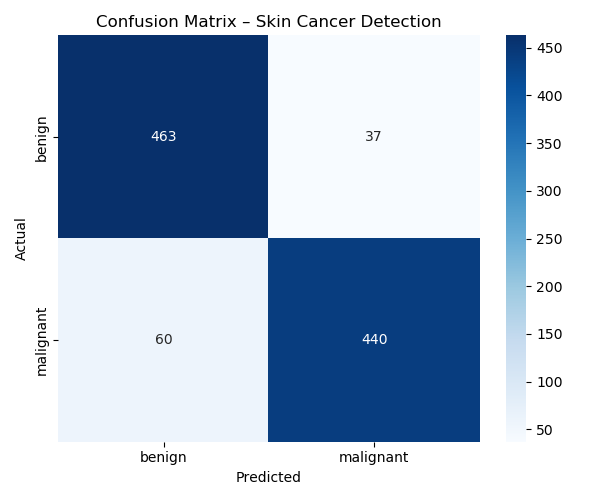
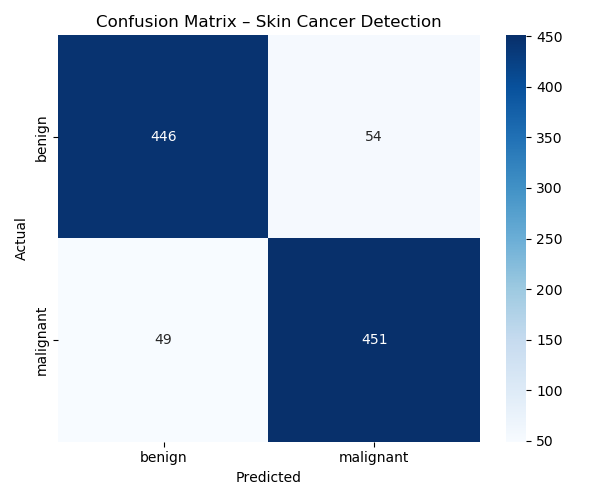
Model slitted into Training, Evaluation, Inference
Model slitted into Training, Evaluation, Inference

diff --git a/inference.py b/inference.py
@@ -1,0 +1,37 @@
+import os
+import cv2
+import numpy as np
+from tensorflow.keras.models import load_model
+
+# ------------------------------------------------------------------
+# Always resolve paths relative to this file
+# ------------------------------------------------------------------
+BASE_DIR = os.path.dirname(os.path.abspath(__file__))
+
+MODEL_PATH = os.path.join(BASE_DIR, "baseline_skin_cancer_model.h5")
+IMAGE_PATH = os.path.join(BASE_DIR, "sample.jpg")
+
+def predict_image(image_path):
+    if not os.path.exists(image_path):
+        raise FileNotFoundError(f"❌ Image not found: {image_path}")
+
+    model = load_model(MODEL_PATH)
+
+    img = cv2.imread(image_path)
+    img = cv2.resize(img, (224, 224))
+    img = img / 255.0
+    img = np.expand_dims(img, axis=0)
+
+    prediction = model.predict(img)[0][0]
+
+    threshold = 0.5
+    label = "Malignant" if prediction >= threshold else "Benign"
+
+    print(f"Prediction score: {prediction:.4f}")
+    print(f"Predicted class: {label}")
+
+# ------------------------------------------------------------------
+# Entry point
+# ------------------------------------------------------------------
+if __name__ == "__main__":
+    predict_image(IMAGE_PATH)

diff --git a/utils/data_loader.py b/utils/data_loader.py
@@ -1,0 +1,38 @@
+# utils/data_loader.py
+import os
+from tensorflow.keras.preprocessing.image import ImageDataGenerator
+
+def load_data(base_dir, batch_size=32):
+    train_dir = os.path.join(base_dir, "train")
+    test_dir  = os.path.join(base_dir, "test")
+
+    assert os.path.exists(train_dir), "Train directory missing"
+    assert os.path.exists(test_dir), "Test directory missing"
+
+    train_gen = ImageDataGenerator(
+        rescale=1./255,
+        rotation_range=20,
+        zoom_range=0.2,
+        width_shift_range=0.2,
+        height_shift_range=0.2,
+        horizontal_flip=True
+    )
+
+    test_gen = ImageDataGenerator(rescale=1./255)
+
+    train_data = train_gen.flow_from_directory(
+        train_dir,
+        target_size=(224,224),
+        batch_size=batch_size,
+        class_mode="binary"
+    )
+
+    test_data = test_gen.flow_from_directory(
+        test_dir,
+        target_size=(224,224),
+        batch_size=batch_size,
+        class_mode="binary",
+        shuffle=False
+    )
+
+    return train_data, test_data

diff --git a/evaluate.py b/evaluate.py
@@ -1,0 +1,35 @@
+# evaluate.py
+import matplotlib.pyplot as plt
+import seaborn as sns
+from tensorflow.keras.models import load_model
+from utils.data_loader import load_data
+from utils.metrics import evaluate_metrics
+
+BASE_DIR = "data/melanoma_cancer_dataset"
+
+_, test_data = load_data(BASE_DIR)
+
+model = load_model("baseline_skin_cancer_model.h5")
+
+y_true = test_data.classes
+y_prob = model.predict(test_data).ravel()
+
+metrics, cm, report = evaluate_metrics(y_true, y_prob, threshold=0.5)
+
+print("\nEvaluation Metrics:")
+for k, v in metrics.items():
+    print(f"{k}: {v:.4f}")
+
+print("\nClassification Report:\n", report)
+
+plt.figure(figsize=(6,5))
+sns.heatmap(
+    cm, annot=True, fmt="d", cmap="Blues",
+    xticklabels=test_data.class_indices.keys(),
+    yticklabels=test_data.class_indices.keys()
+)
+plt.xlabel("Predicted")
+plt.ylabel("Actual")
+plt.title("Confusion Matrix – Skin Cancer Detection")
+plt.tight_layout()
+plt.show()

diff --git a/train.py b/train.py
@@ -1,0 +1,45 @@
+# train.py
+import pickle
+import numpy as np
+import tensorflow as tf
+from tensorflow.keras.callbacks import EarlyStopping
+from model import build_baseline_model
+from utils.data_loader import load_data
+
+# Reproducibility
+np.random.seed(42)
+tf.random.set_seed(42)
+
+BASE_DIR = "data/melanoma_cancer_dataset"
+
+train_data, test_data = load_data(BASE_DIR)
+
+model = build_baseline_model()
+
+model.compile(
+    optimizer="adam",
+    loss="binary_crossentropy",
+    metrics=["accuracy"]
+)
+
+model.summary()
+
+early_stop = EarlyStopping(
+    monitor="val_loss",
+    patience=5,
+    restore_best_weights=True
+)
+
+history = model.fit(
+    train_data,
+    validation_data=test_data,
+    epochs=20,
+    callbacks=[early_stop]
+)
+
+model.save("baseline_skin_cancer_model.h5")
+
+with open("baseline_history.pkl", "wb") as f:
+    pickle.dump(history.history, f)
+
+print("✅ Training complete and model saved")

diff --git a/model.py b/model.py
@@ -1,0 +1,33 @@
+# model.py
+from tensorflow.keras.models import Sequential
+from tensorflow.keras.layers import (
+    Conv2D, MaxPooling2D, Flatten,
+    Dense, Dropout, BatchNormalization
+)
+
+def build_baseline_model(input_shape=(224,224,3)):
+    model = Sequential([
+
+        # OLD (kept for tracking)
+        # Conv2D(16, (3,3), activation="relu", input_shape=input_shape),
+        # MaxPooling2D(2,2),
+
+        Conv2D(32, (3,3), activation='relu', input_shape=input_shape),
+        BatchNormalization(),
+        MaxPooling2D(2,2),
+
+        Conv2D(64, (3,3), activation='relu'),
+        BatchNormalization(),
+        MaxPooling2D(2,2),
+
+        Conv2D(128, (3,3), activation='relu'),
+        BatchNormalization(),
+        MaxPooling2D(2,2),
+
+        Flatten(),
+        Dense(128, activation='relu'),
+        Dropout(0.5),
+        Dense(1, activation='sigmoid')
+    ])
+
+    return model

diff --git a/utils/metrics.py b/utils/metrics.py
@@ -1,0 +1,22 @@
+# utils/metrics.py
+import numpy as np
+from sklearn.metrics import (
+    confusion_matrix,
+    classification_report,
+    roc_auc_score,
+    precision_score,
+    recall_score,
+    f1_score
+)
+
+def evaluate_metrics(y_true, y_prob, threshold=0.5):
+    y_pred = (y_prob > threshold).astype(int)
+
+    metrics = {
+        "Precision": precision_score(y_true, y_pred),
+        "Recall": recall_score(y_true, y_pred),
+        "F1-score": f1_score(y_true, y_pred),
+        "ROC-AUC": roc_auc_score(y_true, y_prob)
+    }
+
+    return metrics, confusion_matrix(y_true, y_pred), classification_report(y_true, y_pred)
